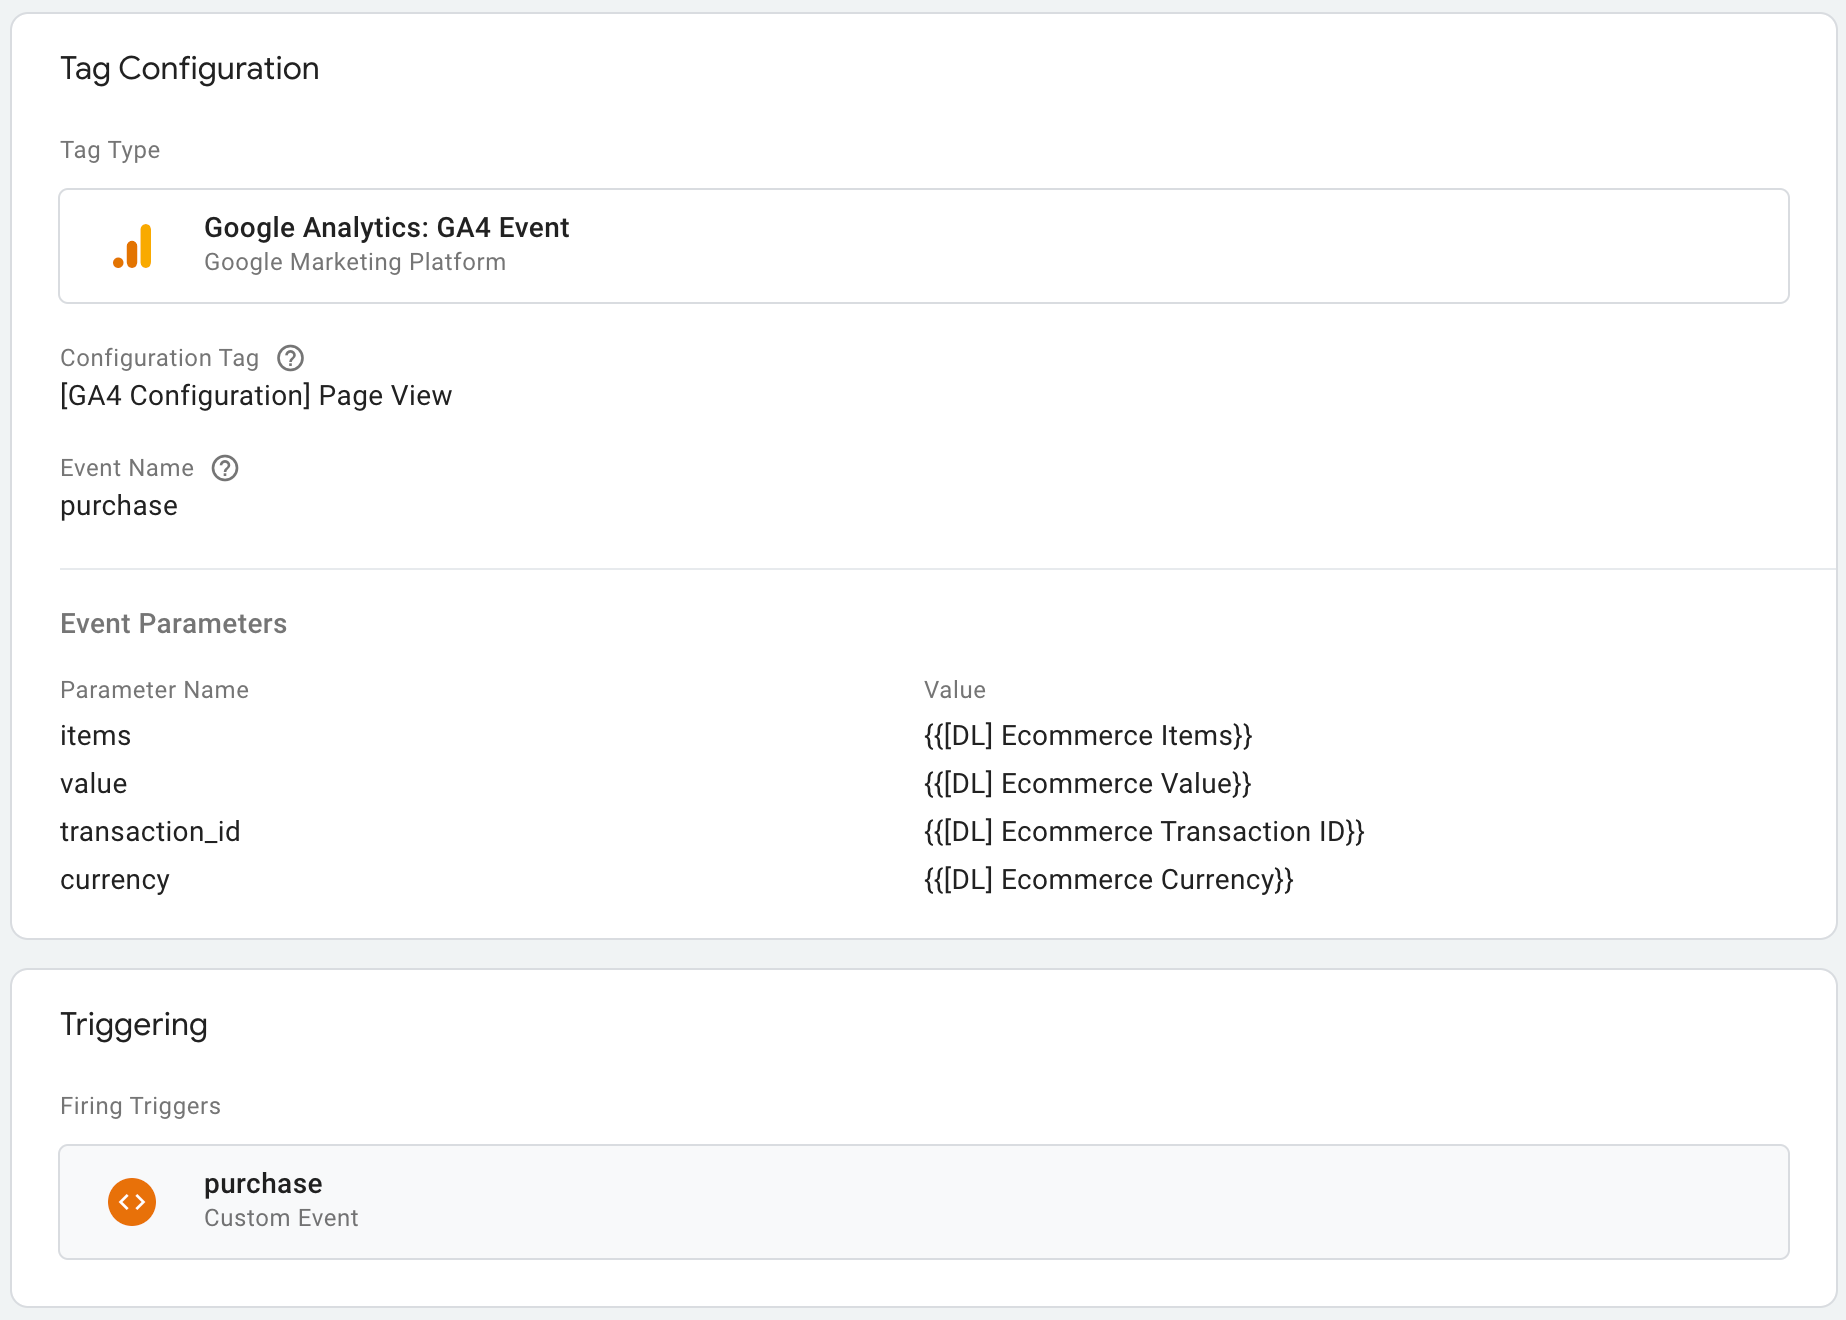
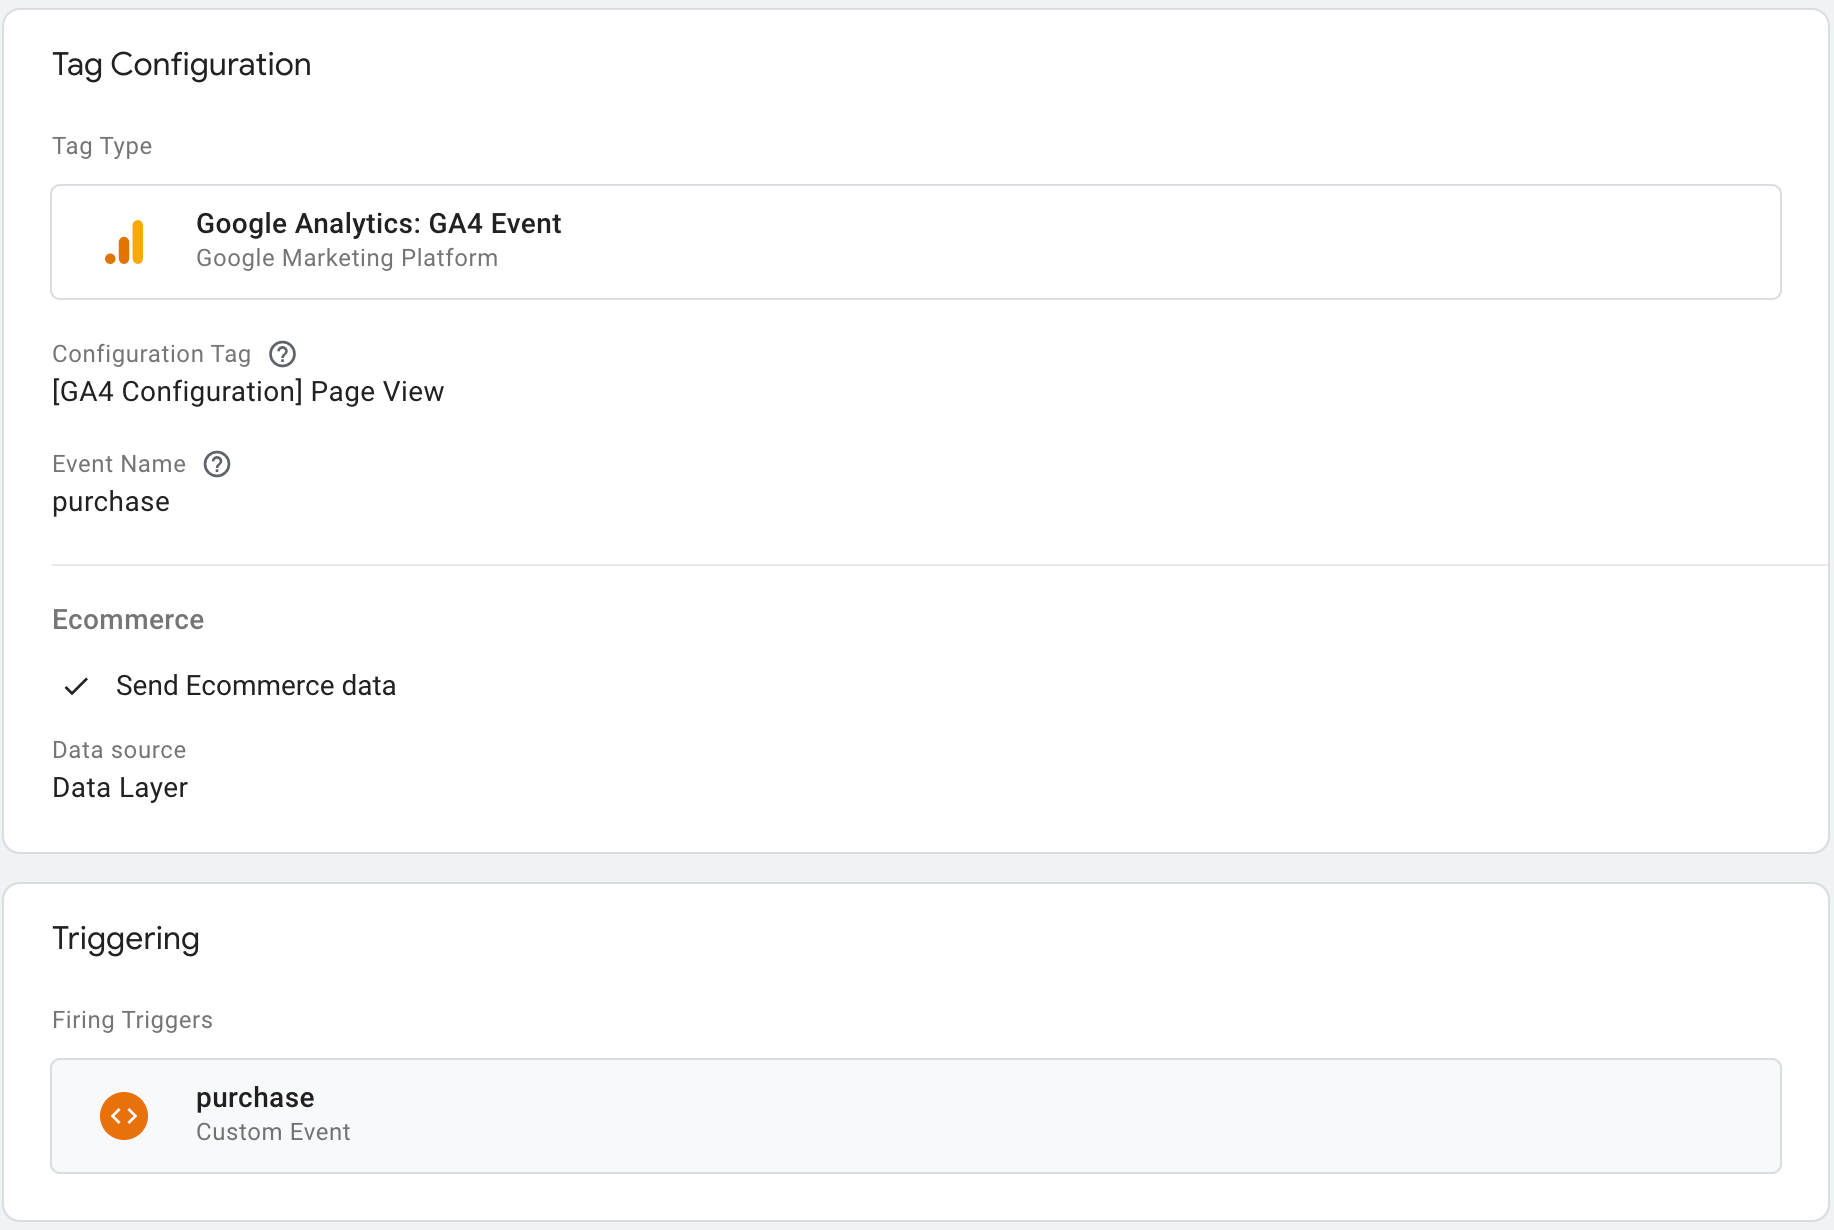
Update web GTM doc & old filename.
The web GTM set up doesn't require manual mapping of the datalayer variables. This change removes that.

It also updates the old filename of the template.

diff --git a/docs/GUIDE.md b/docs/GUIDE.md
@@ -184,8 +184,7 @@ see [image 4](#image-4).
 
 <br>
 
-A purchase event is then configured, which maps the data layer variables to the
-event parameters, see [image 5](#image-5).
+A purchase event is then configured, see [image 5](#image-5).
 
 ![image5](./img/image5.png)
 
@@ -206,7 +205,7 @@ way it's easy to fetch the right document by a single lookup.
 First create a `products` collection, then add documents to this collection for
 each product. These documents should have a field with the profit value.
 
-The Firestore collection name, and document field can be set when setting up the 
+The Firestore collection name, and document field can be set when setting up the
 variable in sGTM.
 
 ![image6](./img/image6.png)
@@ -252,7 +251,7 @@ https://developers.google.com/tag-platform/tag-manager/server-side/manual-setup-
     [tagmanager.google.com](https://tagmanager.google.com/).
 2.  Go to templates -> new variable template.
 3.  Click on the three-dot menu on the top right and choose `Import`.
-4.  Select the [`margin-value-template.tpl`](./../src/gtm/firestore-value-template.tpl) file
+4.  Select the [`firestore-value-template.tpl`](./../src/gtm/firestore-value-template.tpl) file
 5.  Go to the permission tab and set the permissions for Firestore, example in [image 8](#image-8).
 6.  Save the template.
 7.  Go to variables -> new user defined variable and create a “profit” variable
